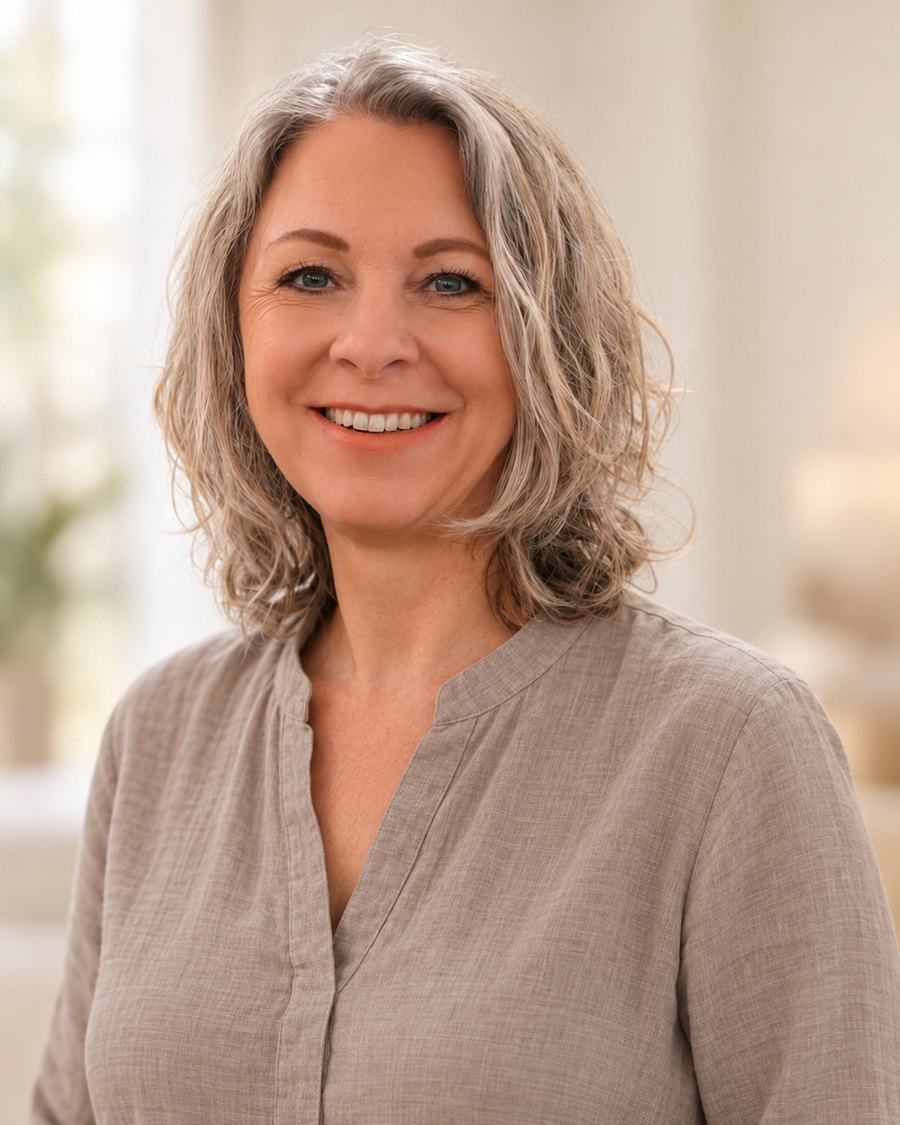
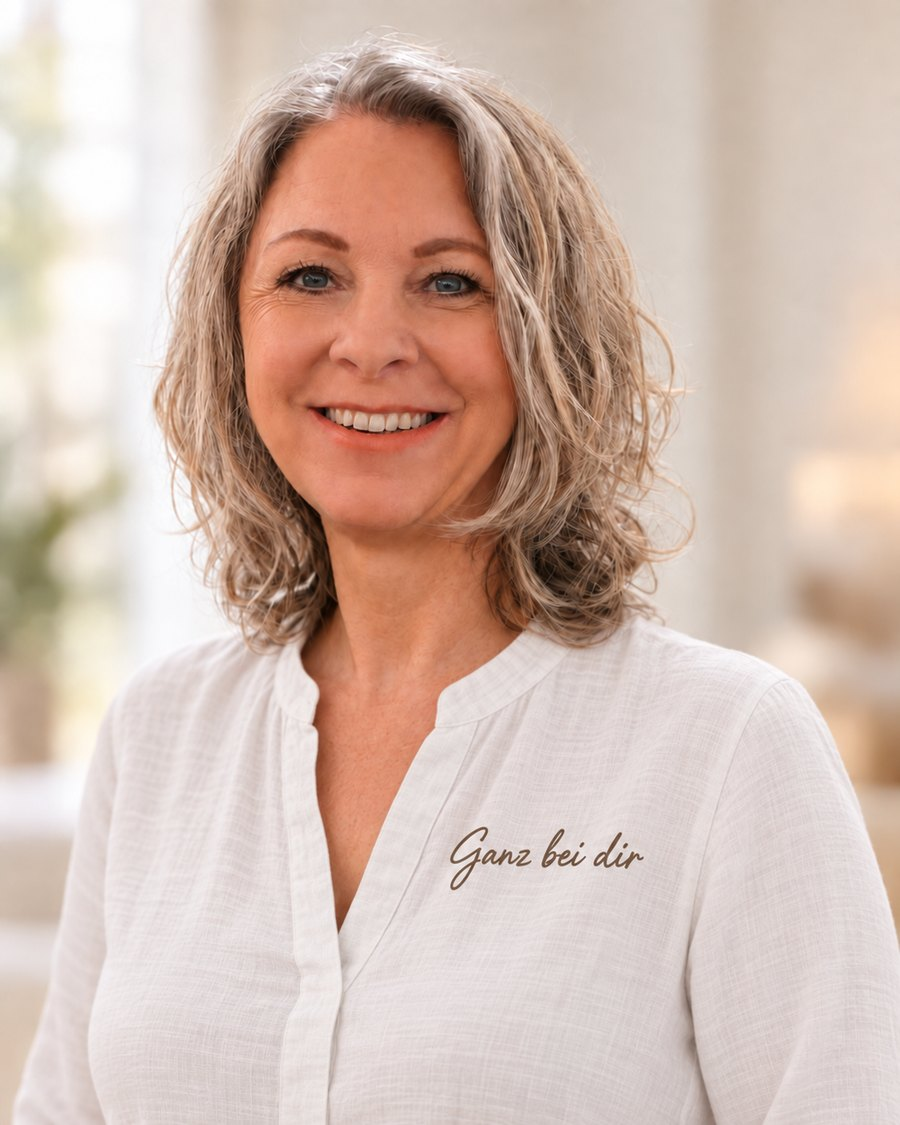
Neues Portraet-Platzhalterbild mit Schriftzug Ganz bei dir
Claude-Session: https://claude.ai/code/session_016RTGGu55VGvbEotauyt6dp

diff --git a/index.html b/index.html
@@ -597,7 +597,7 @@
       <figure class="portraet">
         <img src="bilder/sandra-portraet-platzhalter.jpg" width="900" height="1125"
              loading="lazy" decoding="async"
-             alt="Platzhalterbild: Porträt einer Frau in hellem Leinenhemd">
+             alt="Platzhalterbild: Porträt einer Frau in weißer Leinenbluse mit dem Schriftzug „Ganz bei dir"">
         <figcaption>Platzhalterbild – wird durch ein echtes Foto von Sandra ersetzt.</figcaption>
       </figure>
       <div>
